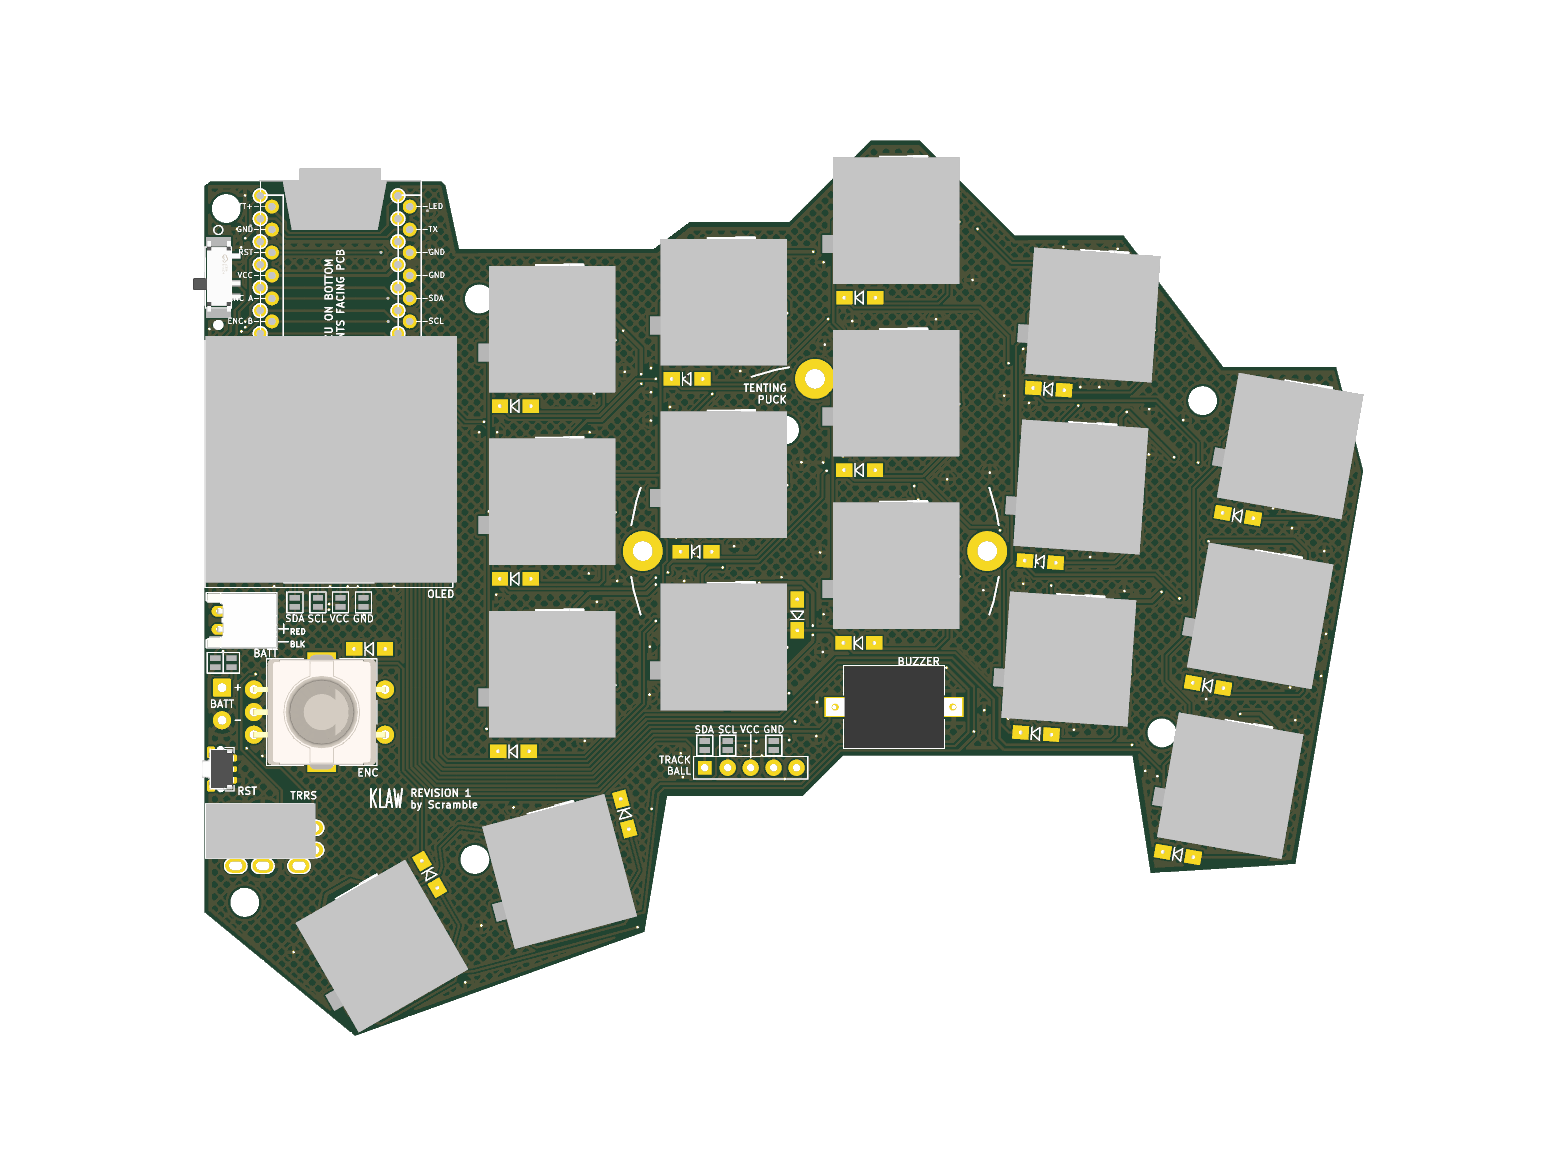
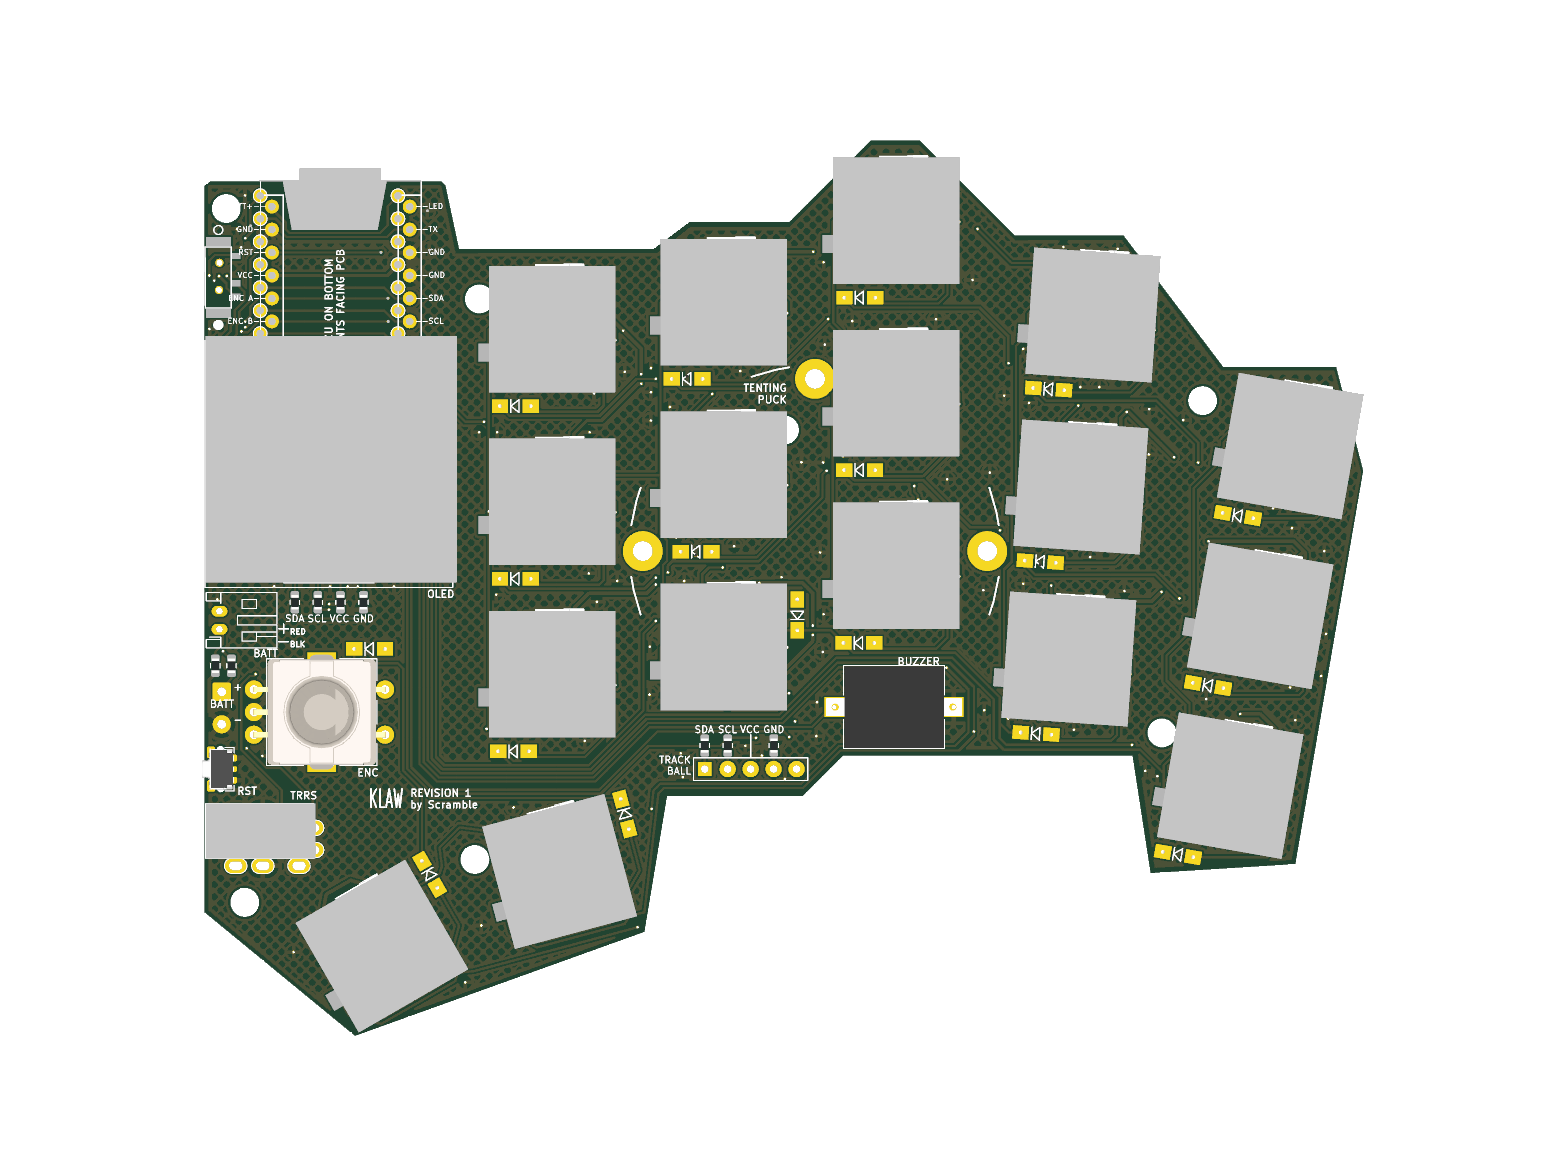
docs: README refresh - final assembly model and rev renders
- correct build-to-face description (components on back = right half)
- feature list: configuration-by-placement 0R links, wired-first note
- build steps match the fully machine-assembled fab package
- fresh keycap-side and component-side renders

diff --git a/README.md b/README.md
@@ -2,11 +2,13 @@
 
 KLAW is a compact **34-key column-staggered split keyboard**, derived from
 [GEIGEIGEIST's KLOR](https://github.com/GEIGEIGEIST/KLOR). Its trick: **one
-reversible PCB serves both halves** — populate the front face and it's the right
-half, populate the back face and it's the left. One board design, one fab order,
-both hands.
+reversible PCB serves both halves** — components on the back face make the right
+half, components on the front face make the left. One board design, one gerber
+upload, both hands — and every solderable part, down to the hot-swap sockets and
+configuration links, is machine-assembled.
 
-![KLAW PCB](docs/images/klaw_top.png)
+![KLAW PCB — keycap side](docs/images/klaw_top.png)
+![KLAW PCB — component side](docs/images/klaw_bottom.png)
 
 ## Features
 
@@ -14,13 +16,17 @@ both hands.
 - **Hot-swap sockets** (Kailh CPG151101S11-compatible) — no switch soldering
 - **Per-key RGB** — SK6812MINI-EA LEDs, reverse-mounted to glow through the board (machine-assemblable)
 - **Wired or wireless** — TRRS between halves, or Bluetooth with a
-  nice!nano-compatible controller (socketed, Pro Micro pinout); battery connector
-  and power switch on board
+  nice!nano-compatible controller (socketed, Pro Micro pinout); battery
+  connector and power switch on board (unpopulated in the wired-first default)
 - **Rotary encoder** (EC11) per half — volume knob or anything you map to it
 - **0.96″ SSD1306 OLED** per half
 - **Piezo buzzer**, reset button, and optional
   [splitkb tenting puck](https://splitkb.com/products/tenting-puck) mounting
 - Optional trackball level-converter header (unpopulated by default)
+- **Configuration by placement** — the OLED mapping, trackball routing, and
+  battery-polarity links that KLOR handles with solder-bridge jumpers are 0603
+  0R resistors here, placed per side by the assembly service; nothing to bridge
+  by hand
 
 ## Repository layout
 
@@ -41,19 +47,20 @@ assembles on the **Bottom** side (`fab/right-half/`), the left half on the
 **Top** side (`fab/left-half/`). Each order is double-sided and covers everything
 solderable — see `fab/README.md` for the exact flow and placement-review checklist.
 
-**2. No soldering required** — the assembly orders cover everything down to the
-hot-swap sockets, TRRS, buzzer, reset switch, and encoder (double-sided
-assembly; mounting sides follow the
+**2. No soldering required** — the assembly orders cover everything solderable:
+diodes, factory-reversed per-key RGB LEDs (SK6812MINI-EA), hot-swap sockets,
+TRRS, buzzer, reset switch, encoder, and each side's 0R configuration resistors
+(double-sided assembly; mounting sides follow the
 [KLOR build guide](https://github.com/GEIGEIGEIST/KLOR/blob/main/docs/buildguide_3DP.md)).
-Mount-face tables per half are in `bom/`. The per-key RGB LEDs (SK6812MINI-EA, LCSC `C5378731`) are
-factory-reversed parts that JLCPCB machine-assembles along with everything else.
-Exact part numbers, prices, and per-half quantities are in `bom/`.
+Mount-face tables, part numbers, prices, and per-half quantities are in `bom/`.
 
 **3. Add your own** MX-style switches (hot-swap, no soldering), a
 nice!nano-compatible controller (socket it — the MCU mounts on the **bottom**,
 components facing the PCB, as marked on the silkscreen), a 4-pin I²C SSD1306
-OLED module, keycaps, and for wireless use a 301230-or-similar LiPo battery
-(JST PH connector or solder pads).
+OLED module, and keycaps. For a wireless build, additionally fit the power
+switch (`C431540`), JST battery connector (`C173752`), and a 301230-or-similar
+LiPo — those three positions are DNP in the wired-first default, but their
+polarity-selection resistors are already placed correctly per side.
 
 **4. Firmware.** ZMK (wireless) or QMK (wired) configs for the KLOR family are a
 good starting point; a KLAW-specific config will land in `code/`.
